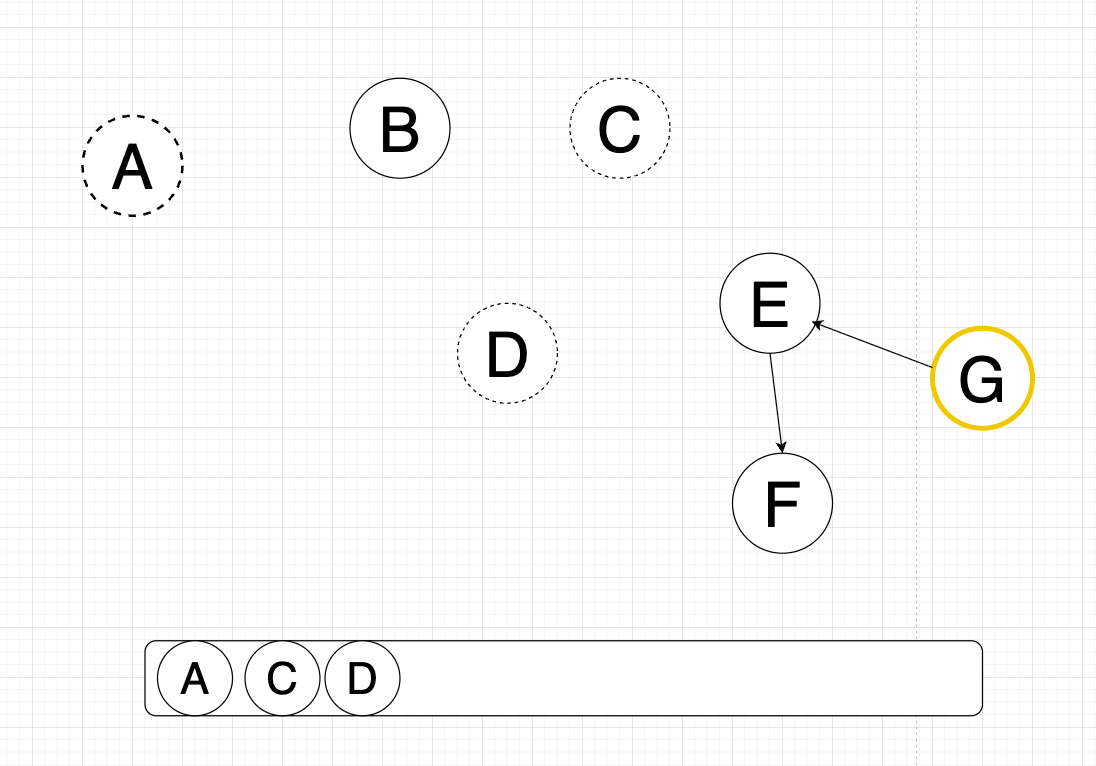
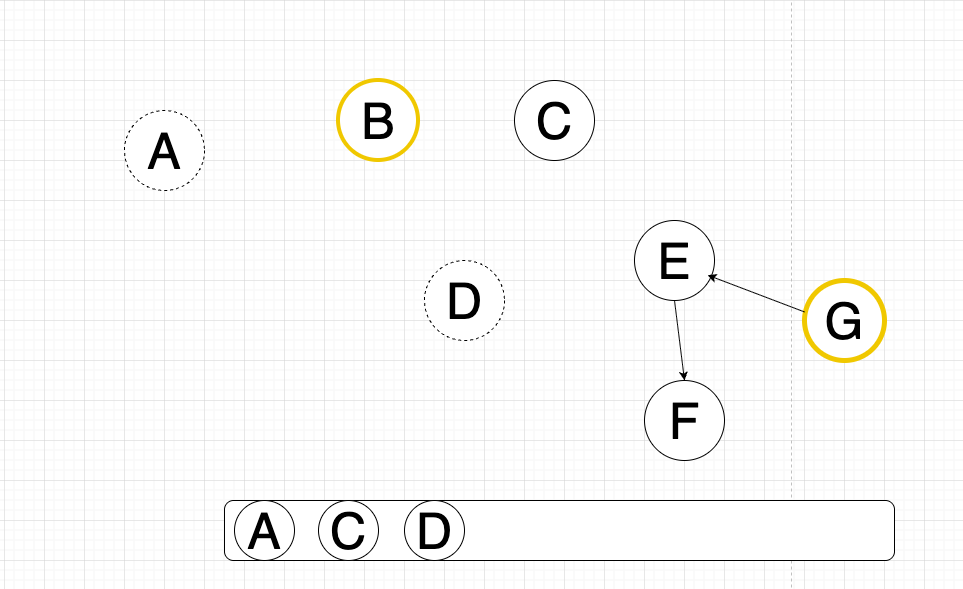
FIX : 본문 내용 수정 및 사진 변경
FIX : 본문 내용 수정 및 사진 변경

diff --git a/graph_algo/topology_sort.md b/graph_algo/topology_sort.md
@@ -19,61 +19,66 @@
 
 ![선수과목.png](/graph_algo/assets/ch10_graph_algo/topological_sorting/선수과목.png)
 
-프로그래밍 1을 무조건 들어야만 프로그래밍2, 자료구조를 들을 수 있다.
+프로그래밍1을 무조건 들어야만 프로그래밍2, 자료구조를 들을 수 있다.
 
-프로그래밍1을  안듣고 객체지향 프로그래밍을 수강할 수 없다.
+프로그래밍1을 듣지 않고 객체지향 프로그래밍을 수강할 수 없다.
 
 ![위상정렬예시1.png](/graph_algo/assets/ch10_graph_algo/topological_sorting/위상정렬예시1.png)
 
 
-123456, 135426 등 여러가지 정렬이 나올 수 있다.
+123456, 135426 등 여러 가지 정렬이 나올 수 있다.
 
-하지만 35146등 3이 1보다 먼저 나오는 정렬은 잘못된 정렬 이다.
+하지만 35146 등 3이 1보다 먼저 나오는 정렬은 잘못된 정렬이다.
 
 ---
 ## 위상 정렬이란?
 
 방향 그래프에서 간선으로 주어진 정점 간 **선후 관계를 위배하지 않도록 정렬**하는 것이다.  
 
-위상정렬이란? 방향 그래프에서 간선으로 주어진 정점 간 선후 관계를 위배하지 않도록 나열하는 정렬 하는 것이다.
-
 
 ![위상정렬_사이클.png](/graph_algo/assets/ch10_graph_algo/topological_sorting/위상정렬_사이클.png)
 
 그래프 내에 사이클이 존재할 경우에는 올바른 위상정렬이 존재할 수 없다. 선후관계를 위배한다.
 
+위상정렬 예시를 통해 위상 정렬이 어떻게 수행되는지 보겠다.
+
 ![위상정렬본문예시1.png](/graph_algo/assets/ch10_graph_algo/topological_sorting/위상정렬본문예시1.png)
 
-위상 정렬 상에서 제일 앞에 오는 원소가 무엇인지 정해봅시다.
+먼저, 위상 정렬이 시작되는 원소를 찾아야 한다.
+위상 정렬이 시작되는 원소는 자신보다 앞에 위치해야 하는 정점이 하나도 없어야 한다.
 
-제일 앞에 오기 위해서는 자신보다 앞에 위치해야 하는 정점이 하나도 없어야한다.
-
-이 말의 즉슨 자신에게 들어오는 간선이 없어야한다. (indegree = 0)
+즉, 자신에게 들어오는 간선이 없어야 한다. (indegree = 0)
 
 ![위상정렬본문예시2.png](/graph_algo/assets/ch10_graph_algo/topological_sorting/위상정렬본문예시2.png)
 
 A, G, C가 가능한 후보군임을 알 수 있다.
 
-셋 중 어느 것이 제일 앞에 오더라도 전혀 상관이 없겠지만 A를 선택 하겠다.
+셋 중 어느 것이 제일 앞에 오더라도 상관이 없다. 본 예시에서는 A를 선택하겠다.
 
 ![위상정렬본문예시3.png](/graph_algo/assets/ch10_graph_algo/topological_sorting/위상정렬본문예시3.png)
 
-일단 A를 위상 정렬의 제일 앞에 위치시켰다. 이제 위상 정렬을 계속 진행하기 위해 A에서 나가는 간선을 살펴야 한다. 주어진 그래프에서는 A에서 B로 가는 간선만 존재한다. 이 간선은 A가 B보다 먼저 나와야 한다는 제약 조건을 의미한다. 그런데 이미 A가 위상 정렬에 포함되었으므로 이 제약 조건은 자연스럽게 충족된다. 즉, A를 위상 정렬에 추가한 이후에는 A에서 나가는 간선이 더 이상 제약 조건으로 작용하지 않는다.
+A를 위상 정렬의 앞에 둔다. A에서 B로 가는 간선은 A가 B보다 먼저 나와야 한다는 제약이다. 
+하지만 A가 이미 포함되었으므로 이 제약은 자동으로 충족된다. 
+따라서 A를 추가한 뒤에는 A에서 나가는 간선은 제거된다.
 
 ![위상정렬본문예시4.png](/graph_algo/assets/ch10_graph_algo/topological_sorting/위상정렬본문예시4.png)
+C와 G 중 어느 것을 택해도 상관없지만 임의로 C를 택하겠다. 위상 정렬에서의 두 번째 원소는 C이다.
+
+C를 제거함으로써, C에서 나가는 간선은 사라지게 된다.
 ![위상정렬본문예시5.png](/graph_algo/assets/ch10_graph_algo/topological_sorting/위상정렬본문예시5.png)
 
-C가 제거 된 후 B,D,E,F,G로 이루어진 그래프에서 제일 앞에 위치할 수 있는 정점은 D, G 이다. C가 사라지면서 D가 새롭게 추가 되었다.
+C가 제거된 후 B,D,E,F,G로 이루어진 그래프에서 제일 앞에 위치할 수 있는 정점은 D, G 이다. C가 사라지면서 D가 새롭게 추가되었다.
 
 임의로 D를 선택하겠다.
 
 ![위상정렬본문예시6.png](/graph_algo/assets/ch10_graph_algo/topological_sorting/위상정렬본문예시6.png)
 
-정점 D가 제거된 후 그래프가 분리되었다. 분리된 것은 신경 쓰지 않고 과정을 이어가겠다. B, E, F, G로 이루어진 그래프에서 제일 앞에 위치할 수 있는 정점은 B와 G이다. 임의로 G를 선택하겠다.
+정점 D가 제거된 후 그래프가 분리되었다. 분리된 것은 신경쓰지 않고 과정을 이어가겠다. B, E, F, G로 이루어진 그래프에서 제일 앞에 위치할 수 있는 정점은 B와 G이다. 임의로 G를 선택하겠다.
 
+G를 선택한 후, G에서 나가는 간선은 제거된다.
 ![위상정렬본문예시7.png](/graph_algo/assets/ch10_graph_algo/topological_sorting/위상정렬본문예시7.png)
 
-E를 제거 해보겠다.
+B와 E 중 어느 것을 선택해도 상관없지만, E를 제거 해보겠다.
 
 ![위상정렬본문예시8.png](/graph_algo/assets/ch10_graph_algo/topological_sorting/위상정렬본문예시8.png)
 
@@ -108,35 +113,35 @@ E를 제거 해보겠다.
 
 indegree 배열을 모두 채운 후, indegree가 0인 정점들을 큐에 넣는다. 이때 BFS나 DFS에서 하던 방문 체크는 필요 없다. 왜냐하면 앞으로 indegree가 0이 될 때만 큐에 넣는데, 각 정점의 indegree가 0이 되는 순간은 정확히 한 번뿐이기 때문이다.
 
-큐의 front에 있는 정점 A를 꺼내 위상 정렬 결과에 추가한다. 실제로 정점 A와 A에서 B로 가는 간선을 지우는 대신, 정점 A를 관념적으로 제거한다. 그에 따라 A와 연결된 정점 B의 indegree가 1 감소한다. 아직 B의 indegree가 0이 아니므로 큐에 넣지 않는다.
+큐의 front에 있는 정점 A를 꺼내 위상 정렬 결과에 추가한다. 실제로 정점 A와 A에서 B로 가는 간선을 지우는 대신, 정점 A를 제거한다. 그에 따라 A와 연결된 정점 B의 indegree가 1 감소한다. 아직 B의 indegree가 0이 아니므로 큐에 넣지 않는다.
 
 ![위상정렬수행예시2.png](/graph_algo/assets/ch10_graph_algo/topological_sorting/위상정렬수행예시2.png)
 
-큐의 front에 있는 A를 꺼내 위상 정렬 결과에 추가한다. 실제로 정점 A와 A에서 B로 가는 간선을 지우는 대신, 정점 A를 관념적으로 제거하여 A와 연결된 정점 B의 indegree를 1 감소시킨다. 정점 B의 indegree가 아직 0이 아니므로 큐에 넣지 않는다.
+큐의 front에 있는 A를 꺼내 위상 정렬 결과에 추가한다. 실제로 정점 A와 A에서 B로 가는 간선을 지우는 대신, 정점 A를 제거하여 A와 연결된 정점 B의 indegree를 1 감소시킨다. 정점 B의 indegree가 아직 0이 아니므로 큐에 넣지 않는다.
 
 ![위상정렬수행예시3.png](/graph_algo/assets/ch10_graph_algo/topological_sorting/위상정렬수행예시3.png)
 
-큐의 front에 있는 C를 꺼내 위상 정렬 결과에 추가한다. 정점 C를 관념적으로 제거하므로 C에서 연결된 정점 B와 D의 indegree를 1 감소시킨다. 정점 B의 indegree는 아직 0이 아니어서 큐에 넣지 않고, 정점 D의 indegree는 0이 되어 큐에 추가한다.
+큐의 front에 있는 C를 꺼내 위상 정렬 결과에 추가한다. 정점 C를 제거하므로 C에서 연결된 정점 B와 D의 indegree를 1 감소시킨다. 정점 B의 indegree는 아직 0이 아니어서 큐에 넣지 않고, 정점 D의 indegree는 0이 되어 큐에 추가한다.
 
 ![위상정렬수행예시4.png](/graph_algo/assets/ch10_graph_algo/topological_sorting/위상정렬수행예시4.png)
 
-큐의 front에 있는 G를 꺼내 위상 정렬 결과에 추가한다. 정점 G를 관념적으로 제거하므로 G에서 연결된 정점 E의 indegree를 1 감소시킨다. 정점 E의 indegree는 아직 0이 아니어서 큐에 넣지 않는다.
+큐의 front에 있는 G를 꺼내 위상 정렬 결과에 추가한다. 정점 G를 제거하므로 G에서 연결된 정점 E의 indegree를 1 감소시킨다. 정점 E의 indegree는 아직 0이 아니어서 큐에 넣지 않는다.
 
 ![위상정렬수행예시5.png](/graph_algo/assets/ch10_graph_algo/topological_sorting/위상정렬수행예시5.png)
 
-큐의 front에 있는 D를 꺼내 위상 정렬 결과에 추가한다. 정점 D를 관념적으로 제거하므로 D에서 연결된 정점 B와 E의 indegree를 각각 1 감소시킨다. 정점 B와 E의 indegree가 모두 0이 되어 큐에 추가한다.
+큐의 front에 있는 D를 꺼내 위상 정렬 결과에 추가한다. 정점 D를 제거하므로 D에서 연결된 정점 B와 E의 indegree를 각각 1 감소시킨다. 정점 B와 E의 indegree가 모두 0이 되어 큐에 추가한다.
 
 ![위상정렬수행예시6.png](/graph_algo/assets/ch10_graph_algo/topological_sorting/위상정렬수행예시6.png)
 
-큐의 front에 있는 B를 가져와 위상 정렬 결과에 추가한다. 정점 B를 관념적으로 지울 것인데 B로부터 연결된 정점이 없으므로 indegree의 값은 변화하지 않는다.
+큐의 front에 있는 B를 가져와 위상 정렬 결과에 추가한다. 정점 B를 지울 것인데 B로부터 연결된 정점이 없으므로 indegree의 값은 변화하지 않는다.
 
 ![위상정렬수행예시7.png](/graph_algo/assets/ch10_graph_algo/topological_sorting/위상정렬수행예시7.png)
 
-큐의 front에 있는 E를 가져와 위상 정렬 결과에 추가한다. 정점 E를 관념적으로 지울 것이기 때문에 E로부터 연결된 정점 F의 indegree가 1 감소한다. 정점 F의 indegree는 0이기 때문에 큐에 추가한다.
+큐의 front에 있는 E를 가져와 위상 정렬 결과에 추가한다. 정점 E를 지울 것이기 때문에 E로부터 연결된 정점 F의 indegree가 1 감소한다. 정점 F의 indegree는 0이기 때문에 큐에 추가한다.
 
 ![위상정렬수행예시8.png](/graph_algo/assets/ch10_graph_algo/topological_sorting/위상정렬수행예시8.png)
 
-큐의 front에 있는 F를 가져와 위상 정렬 결과에 추가한다. 정점 F를 관념적으로 지울 것인데 F로부터 연결된 정점이 없으므로 indegree의 값은 변화하지 않는다. 이제는 큐가 비었기 떄문에 위상 정렬이 종료된다. 위상 정렬 결과를 확인해보면 위상 정렬이 잘 수행되었음을 알 수 있다.
+큐의 front에 있는 F를 가져와 위상 정렬 결과에 추가한다. 정점 F를 지울 것인데 F로부터 연결된 정점이 없으므로 indegree의 값은 변화하지 않는다. 이제는 큐가 비었기 떄문에 위상 정렬이 종료된다. 위상 정렬 결과를 확인해보면 위상 정렬이 잘 수행되었음을 알 수 있다.
 
 ---
 ## 파이썬 코드
@@ -181,12 +186,10 @@ else:
     print(*result)
 
 ```
-
-우선 N개의 정점이 있으며, 번호는 1부터 시작한다. adj에는 해당 정점에서 뻗어나가는 정점들의 목록이 저장되어 있다. 이는 방향 그래프에서 인접 리스트를 이용한 그래프 저장 방식이다. 그리고 deg에는 각 정점의 indegree 값이 저장되어 있다.
-
-이 알고리즘의 시간복잡도를 고려하면, 각 정점은 큐에 최대 1번 들어가고, indegree를 감소시키는 연산은 각 간선에 대해 딱 1번만 발생한다. 따라서 시간복잡도는 O(V+E)이다. 이는 그래프에서 BFS나 DFS가 O(V+E)인 것과 같은 맥락이다.
-
-큐의 front에 있는 G를 꺼내 위상 정렬 결과에 추가한다. 정점 G를 관념적으로 제거하므로 G에서 연결된 정점 E의 indegree를 1 감소시킨다. 정점 E의 indegree는 아직 0이 아니어서 큐에 넣지 않는다.
+그래프는 1번부터 N번까지 정점으로 구성되며, adj에는 각 정점에서 나가는 간선의 대상이, deg에는 각 정점의 진입 차수가 저장된다. 
+이 정보는 입력 단계에서 미리 세팅된다. 
+알고리즘은 큐를 이용해 indegree가 0인 정점을 순차적으로 처리하며, 각 정점은 한 번만 큐에 들어가고 간선도 한 번만 처리되므로 시간복잡도는 O(V+E)이다.
+ 결과 리스트 result의 길이가 N이면 사이클 없이 위상 정렬이 완료된 것이다.
 
 ---
 ### 참고
